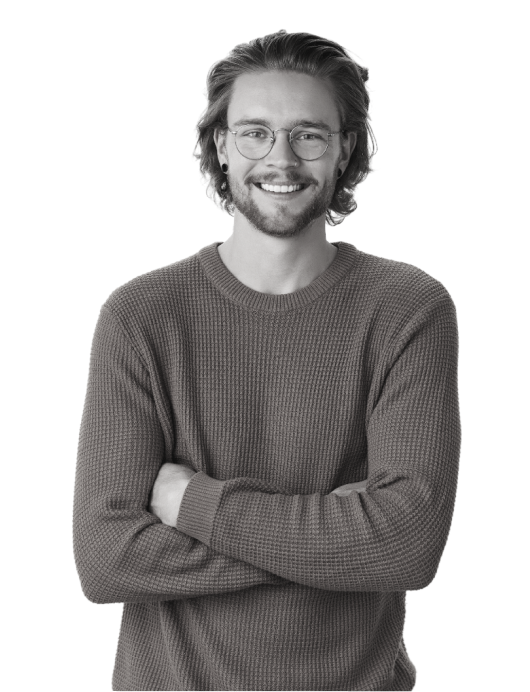
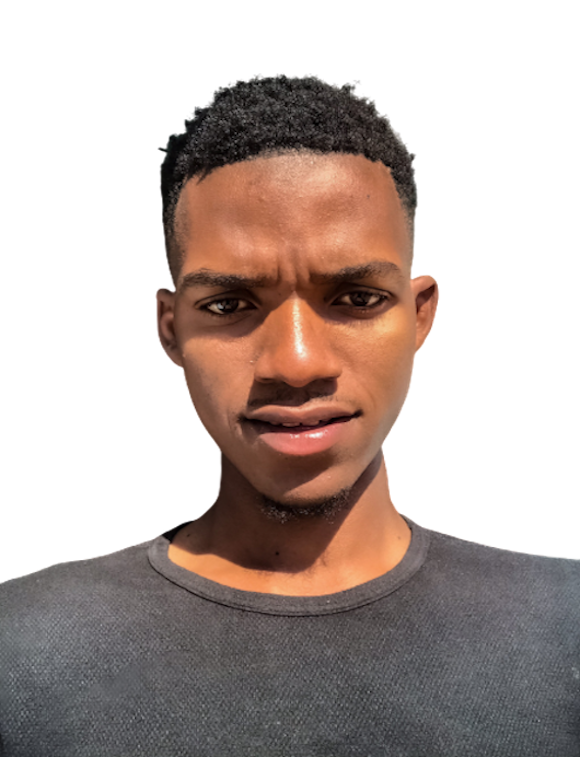
chore: Update profile pic

diff --git a/src/components/Header/Header.js b/src/components/Header/Header.js
@@ -6,9 +6,7 @@ import { DiCssdeck } from 'react-icons/di';
 import {
 	Container,
 	Div1,
-	Div2,
 	Div3,
-	NavLink,
 	SocialIcons,
 	Span,
 } from './HeaderStyles';
@@ -29,23 +27,6 @@ const Header = () => (
 				</a>
 			</Link>
 		</Div1>
-		{/* <Div2>
-			<li>
-				<Link href='#projects' passHref legacyBehavior>
-					<NavLink>Projects</NavLink>
-				</Link>
-			</li>
-			<li>
-				<Link href='#tech' passHref legacyBehavior>
-					<NavLink>Technologies</NavLink>
-				</Link>
-			</li>
-			<li>
-				<Link href='#about' passHref legacyBehavior>
-					<NavLink>About</NavLink>
-				</Link>
-			</li>
-		</Div2> */}
 		<Div3>
 			<SocialIcons href='https://github.com'>
 				<AiFillGithub color='#ff7067' size='3rem' />

diff --git a/src/components/Intro/Intro.js b/src/components/Intro/Intro.js
@@ -60,7 +60,7 @@ const Intro = (props) => (
 				<img
 					style={{
 						width: 528.15,
-						height: 691.29,
+						height: 721.29,
 						left: 75.87,
 						top: 0,
 						position: 'absolute',
